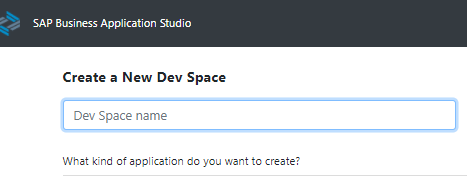
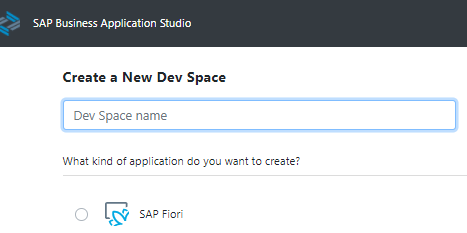
updated to LCAP dev space

diff --git a/tutorials/appstudio-devspace-create/appstudio-devspace-create.md b/tutorials/appstudio-devspace-create/appstudio-devspace-create.md
@@ -11,7 +11,7 @@ parser: v2
 
 
 # Create a Dev Space for Business Applications
-<!-- description --> Create a dev space for business applications -- a preconfigured development environment with the required tools and extensions for a specific scenario.
+<!-- description --> A dev space is a pre-configured development environment with the required tools and extensions for a specific scenario.
 
 ## Prerequisites
  - You are subscribed to SAP Business Application Studio. See [Getting Started](https://help.sap.com/viewer/9d1db9835307451daa8c930fbd9ab264/Cloud/en-US/19611ddbe82f4bf2b493283e0ed602e5.html)
@@ -33,7 +33,7 @@ parser: v2
 
     <!-- border -->![Choose Name](add-name.png)
 
-4. Choose **Full Stack Cloud Application Using Prodictivity Tools** as the application type.
+4. Choose **Full-Stack Application Using Productivity Tools** as the application type.
 
     <!-- border -->![Choose SAP Cloud](2.png)
 
@@ -48,7 +48,6 @@ parser: v2
 6. Once the dev space is running, click the dev space name to open it.
 
 
-### Test yourself
 
 
 
